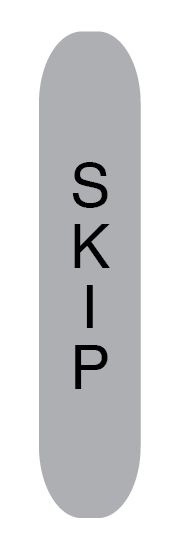
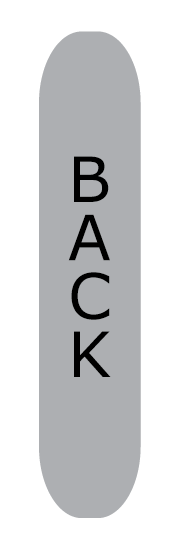
Next skip and back

Changed region(s): [[0.3889, 0.2782, 0.6111, 0.7109]]

diff --git a/src/server/opinion/templates/mobile.html b/src/server/opinion/templates/mobile.html
@@ -347,12 +347,15 @@
                 <div class="slider-progress"></div>  
                 <div style="width: 100%; text-align: center; padding-bottom: 15px;">{{ statement.statement }}</div>
                 <!--<div class='endsliders-next-btn button-div-small' id="skip-{{statement.id}}">Skip</div><br/>-->
-                <img class='endsliders-next-btn' style="width: 50px !important; float: left;position: relative;top: 55px;" id="next-{{statement.id}}" src="{{url_root}}/media/mobile/img/cafe/Skip_V1.png">
+                <div style="position:relative; left: 15px;">
+                <img class='endsliders-back-btn' style="width: 50px !important; float: left;position: relative;top: 55px;" id="back-{{statement.id}}" src="{{url_root}}/media/mobile/img/cafe/Skip_V1.png">
                 <div class="slider" style="float: left;" id="slider-{{statement.id}}"></div>
-               <img class='endsliders-next-btn' style="width: 50px !important; float: left; position: relative; left: -10px;top: 55px;" id="next-{{statement.id}}" src="{{url_root}}/media/mobile/img/cafe/Next_V1.png">
+               <img class='endsliders-next-btn' style="width: 50px !important; float: left; position: relative; left: -15px;top: 55px;" id="next-{{statement.id}}" src="{{url_root}}/media/mobile/img/cafe/Next_V1.png">
+                </div>
                   
                 <div style="clear: both;padding-bottom: 10px;"></div>
-                <div class="median-grade-{{statement.id}}" style="font-size: 26px;"></div>
+                <div class="median-grade-{{statement.id}}" style="font-size: 26px;display: none;"></div>
+                <div class="button-div skip-button-{{statement.id}} skip-btn" id="next-{{statement.id}}" style="background-color: #CCCCCC;color: #000000;width: 150px;">Skip</div>
 
               </center>
 

diff --git a/src/client/media/mobile/js/rate.js b/src/client/media/mobile/js/rate.js
@@ -447,7 +447,41 @@ $(document).ready(function() {
             }
     });
 
+    $('.skip-btn').click(function(event){ 
+        
+        $('.first-dialog-nav').hide();
+        $('.slider-nav-box').show();
+
+        if(parseInt(event.target.id.substring(5),10)+1 > window.num_sliders)
+        {
+            window.prev_state = 'grade';
+        window.cur_state = 'register';
+        rate.logUserEvent(5,'sliders finished');
+        rate.storeSliders(window.num_sliders);
+        if (window.authenticated) {
+            for (var i = 1; i <= window.num_sliders; i++) {
+                rate.sendSlider(window.sliders[i], i);
+            }
+
+        }
+        }
+        else
+            {
+                $("#slide-"+event.target.id.substring(5)).hide();
+                $("#slide-"+(parseInt(event.target.id.substring(5),10)+1)).show("slide", { direction: "right" }, 500);
+                $(".slider-progress-dot-"+(parseInt(event.target.id.substring(5),10)+1)).css("background","#FFFFFF");
+
+            }
+    });
+
+
     $('.endsliders-back-btn').click(function(event){ 
+        
+        if(parseInt(event.target.id.substring(5),10) == 1)
+        {
+            return;
+        }
+
         $("#slide-"+event.target.id.substring(5)).hide();
         $("#slide-"+(parseInt(event.target.id.substring(5),10)-1)).show("slide", { direction: "left" }, 500);
         $(".slider-progress-dot-"+(parseInt(event.target.id.substring(5),10))).css("background","#00CCFF");
@@ -457,6 +491,7 @@ $(document).ready(function() {
             $('.first-dialog-nav').show();
             $('.slider-nav-box').hide();
         }
+
     });
 
     $('.comment-submit-btn').click(function() {

diff --git a/src/client/media/mobile/js/crc-transparent-slider.js b/src/client/media/mobile/js/crc-transparent-slider.js
@@ -34,10 +34,16 @@ $(".slider-grade-bubble").on("click",function(e){
 	$(this).css("opacity","1.0"); 
 	$(this).css("border","4px solid #00CCFF");
 	$(this).css("color","#FFFFFF");
+	
+	try {
 	statement_id = parseInt($(this).parent().parent().parent().attr("id").substring(7));
 	median = score_to_grade(100*medians[statement_id]);
 	//alert(median);
 	$(".median-grade-"+statement_id).html("Median Grade: " + median);
+	$(".median-grade-"+statement_id).fadeIn(500);
+	$(".skip-button-"+statement_id).hide();
+	}
+	catch(exception){}
 	
 	//$(this).parent().children(".bubble-"+median.replace("+","p")).css("opacity","1.0");
 	//$(this).parent().children(".bubble-"+median.replace("+","p")).css("border","1px solid #000000");
